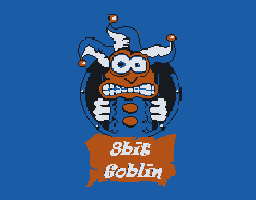
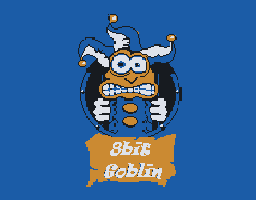
Goblin: Fixed NES bitmaps and sprite palettes.

diff --git a/projects/goblin/src/goblin.c b/projects/goblin/src/goblin.c
@@ -14,8 +14,8 @@
 #elif defined __ORIC__
 	#define spriteCols   12
 	#define spriteRows   24
-	unsigned char spriteColors[] = { PAL_AIC, PAL_AIC, PAL_AIC, PAL_AIC, PAL_AIC, PAL_AIC, PAL_AIC, PAL_AIC };  // AIC color allows faster drawing!
-	unsigned char multiColorDef[] = { PAL_WHITE, 8, PAL_GREEN, 14, PAL_MAGENTA, 24 };	// Multicolor definition { color, row, ... }
+	unsigned char spriteColors[] = { SPR_AIC, SPR_AIC, SPR_AIC, SPR_AIC, SPR_AIC, SPR_AIC, SPR_AIC, SPR_AIC };  // AIC color allows faster drawing!
+	unsigned char multiColorDef[] = { SPR_WHITE, 8, SPR_GREEN, 14, SPR_MAGENTA, 24 };	// Multicolor definition { color, row, ... }
 #elif defined __CBM__
 	#define spriteCols   12
 	#define spriteRows   21
@@ -27,7 +27,8 @@
 #elif defined __NES__
 	#define spriteCols   16
 	#define spriteRows   16
-	unsigned char *spriteColors = 0; //  All sprites use the default palette
+    const unsigned char spriteColors[] = { SPR_BLACK, SPR_BROWN, SPR_GREEN, SPR_YELLOW, SPR_BLACK, SPR_BROWN, SPR_GREEN, SPR_YELLOW, 
+										   SPR_BLACK, SPR_BROWN, SPR_GREEN, SPR_YELLOW, SPR_BLACK, SPR_BROWN, SPR_GREEN, SPR_YELLOW }; // 4 palettes of 4 colors
 #endif
 
 // Accessible polygon in scene
@@ -166,9 +167,11 @@ void SplashScreen(void)
 	
 	// Show credit/build
 	txtX = TXT_COLS-12; txtY = TXT_ROWS-4;
-#if (defined __ORIC__)
+#if defined(__ORIC__)
 	inkColor = AIC;
 	PrintBlanks(12, 3);
+#elif defined(__NES__)
+	inkColor = INK_DEFAULT; 
 #else		
 	pixelX = 0; pixelY = 0;
 	paperColor = GetPixel(); 
